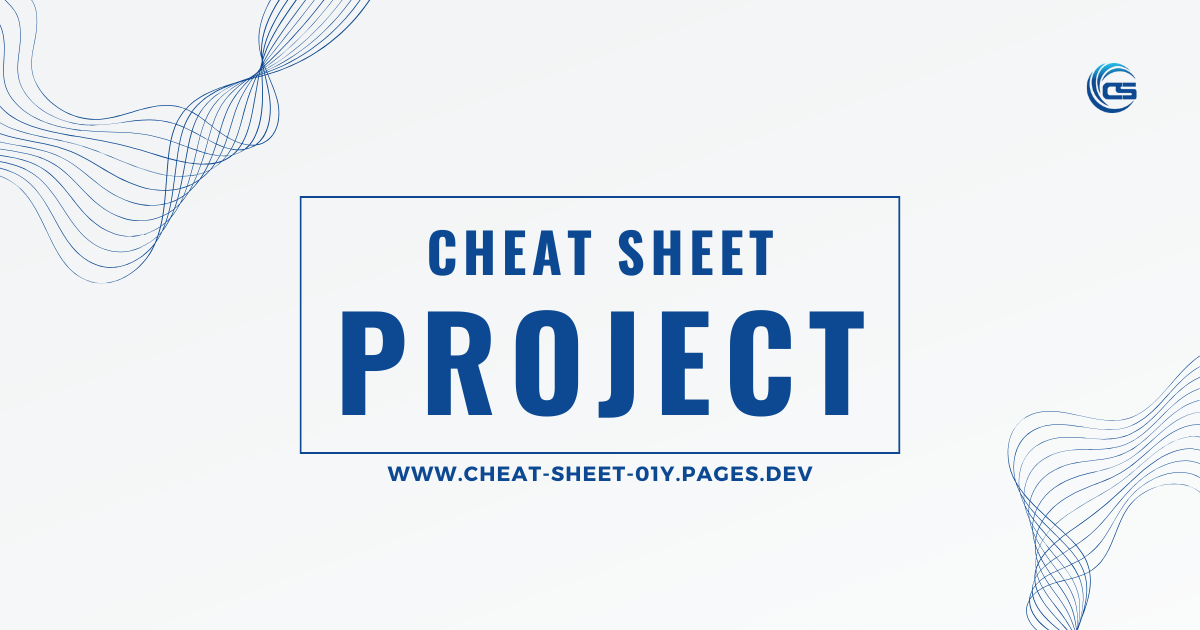
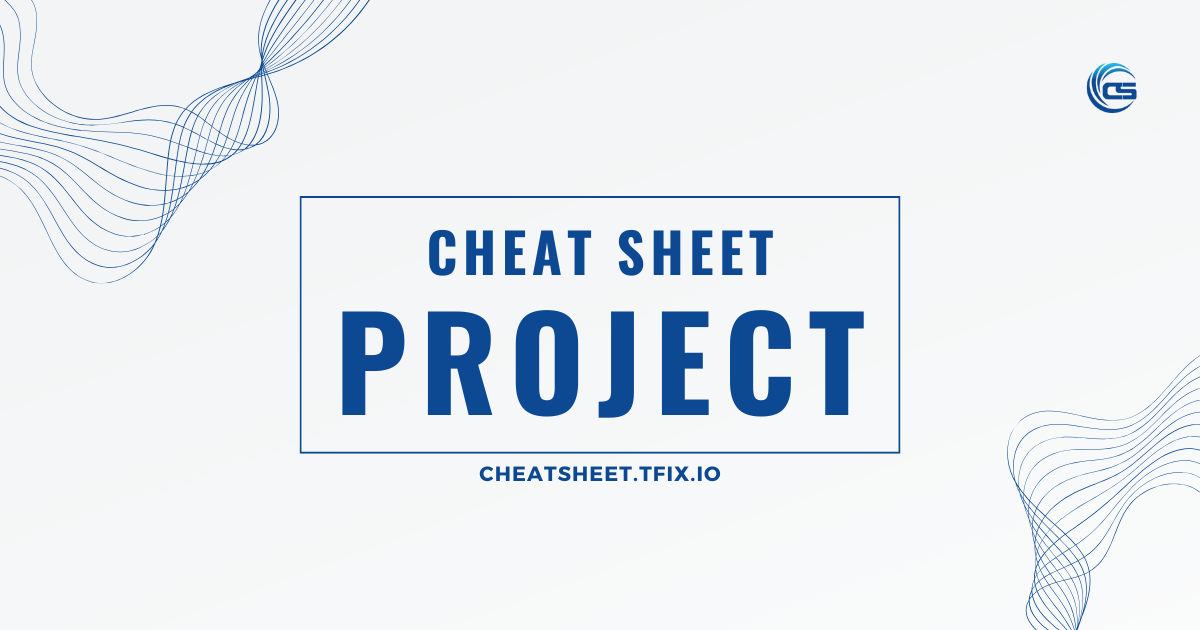
renew domain

Changed region(s): [[0.2775, 0.6937, 0.74, 0.7841], [0.8325, 0.573, 1.0, 1.0], [0.1233, 0.0, 0.3083, 0.3619]]

diff --git a/src/config/site.ts b/src/config/site.ts
@@ -4,7 +4,7 @@ export const siteConfig: SiteConfig = {
   name: "Cheat Sheet",
   description:
     "From HTML to CSS, JavaScript, and beyond, our resources simplify frontend coding, making it easier for both beginners and experts. Dive in to learn, reinforce your knowledge, and stay up-to-date with the latest in web development.",
-  url: "https://cheat-sheet-01y.pages.dev/",
+  url: "https://cheatsheet.tfix.io/",
   author: "Tom Fan",
   ogImage: "/images/opengraph-image.png",
   logo: "/images/logo.png",
